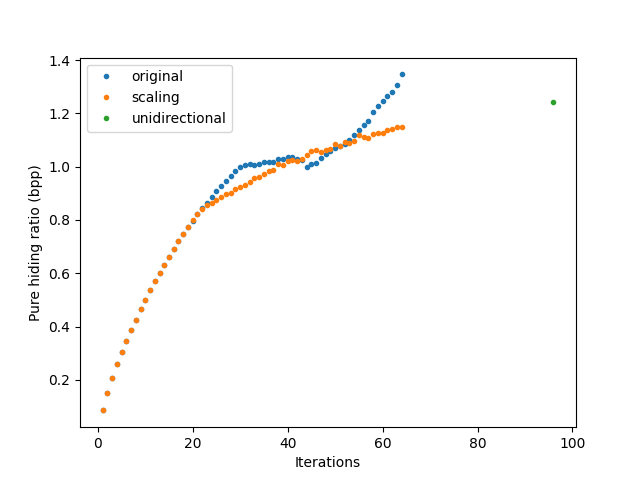
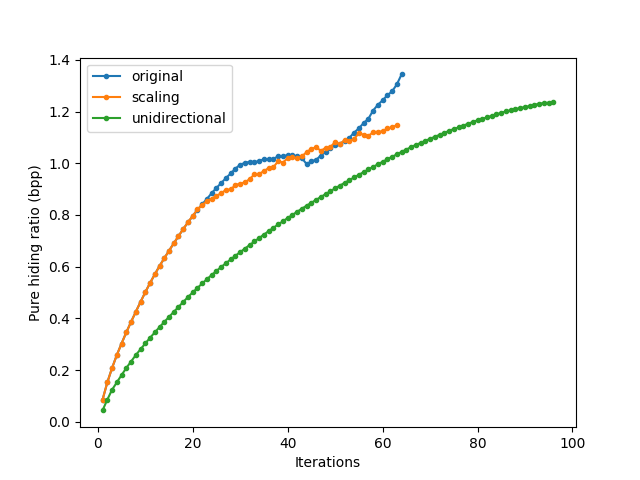
minor fixes

diff --git a/stats.py b/stats.py
@@ -1,3 +1,7 @@
+import argparse
+import os
+
+import PIL.Image as Image
 import cv2
 import matplotlib.pyplot as plt
 import numpy as np
@@ -6,66 +10,38 @@ from skimage.metrics import structural_similarity
 import compress
 from measure import Measure
 from rdh import *
+from shared import bits_to_bytes
 
-ORIGINAL_IMAGE_NAME = 'peppers'
-ORIGINAL_IMAGE_PATH = f'res/{ORIGINAL_IMAGE_NAME}.png'
+parser = argparse.ArgumentParser()
+parser.add_argument('source', help='The path of the original image.', type=str)
+args = parser.parse_args()
+
+ORIGINAL_IMAGE_NAME = args.source
+ORIGINAL_IMAGE_PATH = f'res/{ORIGINAL_IMAGE_NAME}'
 DATA_PATH = 'res/data.txt'
-RDH_ALGORITHMS = [original_algorithm, scaling_algorithm]
-COMPRESSION_ALGORITHM = compress.Zlib()
+RDH_ALGORITHMS = [original_algorithm, scaling_algorithm, unidirectional_algorithm]
+
+image_name, _ = os.path.splitext(ORIGINAL_IMAGE_NAME)
+
+original_image = np.uint8(Image.open(ORIGINAL_IMAGE_PATH).getchannel(0))
+dims = original_image.shape
+if len(dims) > 2:
+    original_image = original_image[:, :, 0]
+
+np.random.seed(2115)
+data = bits_to_bytes(np.random.randint(0, 2, size=2000 * 2000) > 0)
 
 
-def plot(xs, ys, labels, x_label, y_label, name):
+def plot(ys, labels, x_label, y_label, name):
     plt.figure()
-    for x, y, label in zip(xs, ys, labels):
-        plt.plot(x, y, 'o', label=label, markersize=3)
+    for y, label in zip(ys, labels):
+        plt.plot(range(1, len(y) + 1), y, '-o', label=label, markersize=3)
     plt.xlabel(x_label)
     plt.ylabel(y_label)
     plt.legend()
     plt.savefig(f'plots/{name}.png')
-    plt.show()
 
 
-def evaluate():
-    global iterations_count
-    if rdh.extract:
-        try:
-            recovered_image, iterations_count, extracted_data = \
-                Measure(rdh.extract, 'extraction')(processed_image.copy())
-            is_successful = not np.any(original_image - recovered_image)
-            hidden_data_size = len(extracted_data) * 8
-        except Exception as e:
-            print(e)
-            is_successful = False
-            hidden_data_size = 0
-            recovered_image = None
-
-    else:
-        recovered_image = None
-        hidden_data_size = 8 * (len(data) - len(remaining_data))
-        is_successful = hidden_data_size >= 0
-
-    if is_successful:
-        print(hidden_data_size, 'bits')
-        print(hidden_data_size / 8000, 'kb')
-        print(round(hidden_data_size / original_image.size, 3), 'bit/pixel')
-        algorithm_iterations.append(iterations_count)
-        algorithm_rations.append(hidden_data_size / original_image.size)
-        algorithm_stds.append(np.std(processed_image, dtype=np.float64))
-        algorithm_means.append(np.mean(processed_image, dtype=np.float64))
-        algorithm_ssids.append(structural_similarity(original_image, processed_image))
-    else:
-        print('extraction failed')
-        if recovered_image is not None:
-            print('PSNR =', cv2.PSNR(original_image, recovered_image))
-
-    return
-
-
-original_image = cv2.imread(ORIGINAL_IMAGE_PATH, cv2.IMREAD_GRAYSCALE)
-data = open(DATA_PATH, 'rb').read()
-
-ITERATIONS = np.arange(1, 65)
-iterations = []
 ratios = []
 stds = []
 means = []
@@ -75,45 +51,57 @@ for rdh in RDH_ALGORITHMS:
     print('======================')
     print(rdh)
     print('======================')
-    algorithm_iterations = []
     algorithm_rations = []
     algorithm_stds = []
     algorithm_means = []
     algorithm_ssids = []
-    for iterations_count in ITERATIONS:
+    for iterations_count in range(1, rdh.limit + 1):
         print(f'{iterations_count} iterations:')
 
-        processed_image, remaining_data = Measure(rdh.embed, 'embedding')(original_image.copy(), data, iterations_count,
-                                                                          COMPRESSION_ALGORITHM.compress)
-        evaluate()
+        processed_image, remaining_data = Measure(rdh.embed, 'embedding')(original_image.copy(), data, iterations_count)
+        if rdh.extract:
+            try:
+                recovered_image, extraction_iterations, extracted_data = Measure(rdh.extract, 'extraction')(
+                    processed_image.copy())
+                is_successful = \
+                    not np.any(original_image - recovered_image) and extraction_iterations == iterations_count
+                hidden_data_size = len(extracted_data) * 8
+            except Exception as e:
+                print(e)
+                is_successful = False
+                hidden_data_size = 0
+                recovered_image = None
+        else:
+            recovered_image = None
+            hidden_data_size = 8 * (len(data) - len(remaining_data))
+            is_successful = hidden_data_size >= 0
+
+        if is_successful:
+            print(hidden_data_size, 'bits')
+            print(hidden_data_size / 8000, 'kb')
+            print(round(hidden_data_size / original_image.size, 3), 'bit/pixel')
+            algorithm_rations.append(hidden_data_size / original_image.size)
+            algorithm_stds.append(np.std(processed_image, dtype=np.float64))
+            algorithm_means.append(np.mean(processed_image, dtype=np.float64))
+            algorithm_ssids.append(structural_similarity(original_image, processed_image))
+        else:
+            print('extraction failed')
+            if recovered_image is not None:
+                print('PSNR =', cv2.PSNR(original_image, recovered_image))
+            break
 
         print('total time:', stopwatch)
         print('----------------------')
 
-    iterations.append(algorithm_iterations)
     ratios.append(algorithm_rations)
     stds.append(algorithm_stds)
     means.append(algorithm_means)
     ssids.append(algorithm_ssids)
 
-algorithm_iterations = []
-algorithm_rations = []
-algorithm_stds = []
-algorithm_means = []
-algorithm_ssids = []
-rdh = unidirectional_algorithm
-processed_image = rdh.embed(original_image.copy(), data)
-evaluate()
-iterations.append(algorithm_iterations)
-ratios.append(algorithm_rations)
-stds.append(algorithm_stds)
-means.append(algorithm_means)
-ssids.append(algorithm_ssids)
-
 algorithms_labels = [algo.label for algo in RDH_ALGORITHMS]
 algorithms_labels.append(unidirectional_algorithm.label)
 
-plot(iterations, ratios, algorithms_labels, 'Iterations', 'Pure hiding ratio (bpp)', ORIGINAL_IMAGE_NAME + '_rate')
-plot(iterations, stds, algorithms_labels, 'Iterations', 'Standard Deviation', ORIGINAL_IMAGE_NAME + '_std')
-plot(iterations, means, algorithms_labels, 'Iterations', 'Mean Brightness', ORIGINAL_IMAGE_NAME + '_mean')
-plot(iterations, ssids, algorithms_labels, 'Iterations', 'Structural Similarity (SSID)', ORIGINAL_IMAGE_NAME + '_ssid')
+plot(ratios, algorithms_labels, 'Iterations', 'Pure hiding ratio (bpp)', image_name + '_rate')
+plot(stds, algorithms_labels, 'Iterations', 'Standard Deviation', image_name + '_std')
+plot(means, algorithms_labels, 'Iterations', 'Mean Brightness', image_name + '_mean')
+plot(ssids, algorithms_labels, 'Iterations', 'Structural Similarity (SSID)', image_name + '_ssid')

diff --git a/unidirection/embed.py b/unidirection/embed.py
@@ -73,8 +73,6 @@ def get_overhead(P_L, P_H, flag, location_map, arr):
 def process():
     global img, old_P_L, old_P_H, overhead_data, pure_embedded_data, d, iteration, capacity
     while True:
-        if iteration == 72:
-            print()
         hist = get_hist(img)
         P_L, P_H = get_peaks_from_hist(hist)  # what if there are multiple options?
         capacity = np.sum(img == P_H)
@@ -91,7 +89,7 @@ def process():
         else:
             overhead_data = get_overhead(old_P_L, old_P_H, 1, compressed_map, overhead_data)
 
-        if overhead_data.size > capacity:
+        if overhead_data.size > capacity or iteration == iterations_limit:
             break
 
         pure_embedded_data += capacity - overhead_data.size
@@ -108,8 +106,14 @@ def process():
 
 
 def main():
-    global overhead_data, img, header_pixels, M, N
-    np.random.seed(2115)
+    global overhead_data, img, header_pixels, M, N, hidden_data_index, d, old_P_L, old_P_H, \
+        iteration, pure_embedded_data
+    hidden_data_index = 0
+    d = 1
+    old_P_L = 0
+    old_P_H = 0
+    iteration = 0
+    pure_embedded_data = 0
     M, N = img.shape
     img = img.flatten()
     header_pixels = img[-16:]
@@ -118,31 +122,35 @@ def main():
     process()
 
 
-def embed(cover_image, data):
-    global img, hidden_data
+def embed(cover_image, data, limit=None):
+    global img, hidden_data, iterations_limit
+    if limit:
+        iterations_limit = limit
     img = cover_image
     hidden_data = bytes_to_bits(data)
     main()
-    return img
+    return img, hidden_data[hidden_data_index:]
 
 
-hidden_data_index = 0
-d = 1
-old_P_L = 0
-old_P_H = 0
-iteration = 0
-pure_embedded_data = 0
+hidden_data_index = None
+d = None
+old_P_L = None
+old_P_H = None
+iteration = None
+pure_embedded_data = None
 header_pixels = None
 img = None
 M = None
 N = None
 overhead_data = None
 capacity = None
+iterations_limit = 1000000
 
 if __name__ == '__main__':
     hidden_data = bytes_to_bits(open('res/data.txt', 'rb').read())
     # hidden_data = np.array([])
     img = np.uint8(Image.open(IMAGE_PATH))
+    # np.random.seed(2115)
     # hidden_data = np.random.randint(0, 2, size=2000 * 2000) > 0
     main()
     print("Took", iteration, "iterations")

diff --git a/rdh.py b/rdh.py
@@ -6,15 +6,21 @@ from unidirection import embed, extract
 
 
 class RDH:
-    def __init__(self, label, embed, extract=None):
+    INF = 10000
+
+    def __init__(self, label, limit, embed, extract=None):
         self.embed = embed
         self.extract = extract
         self.label = label
+        if limit == -1:
+            self.limit = RDH.INF
+        else:
+            self.limit = limit
 
     def __str__(self) -> str:
         return self.label
 
 
-original_algorithm = RDH('original', original_embed.embed, original_extract.extract)
-scaling_algorithm = RDH('scaling', scaling_embed.embed, scaling_extract.extract)
-unidirectional_algorithm = RDH('unidirectional', embed.embed, extract.extract)
+original_algorithm = RDH('original', 64, original_embed.embed, original_extract.extract)
+scaling_algorithm = RDH('scaling', 63, scaling_embed.embed, scaling_extract.extract)
+unidirectional_algorithm = RDH('unidirectional', -1, embed.embed, extract.extract)

diff --git a/unidirection/extract.py b/unidirection/extract.py
@@ -1,7 +1,7 @@
 import PIL.Image as Image
 
 from unidirection.configurations import *
-from unidirection.data_buffer import DataBuffer
+from data_buffer import BoolDataBuffer
 
 
 def imsave(filename, img):
@@ -10,7 +10,7 @@ def imsave(filename, img):
 
 def get_payload(P_H):
     embedded_data = np.logical_or(img == P_H, img == P_H + d)
-    return DataBuffer(bool, img[embedded_data] != P_H)
+    return BoolDataBuffer(img[embedded_data] != P_H)
 
 
 def shift_in_between(P_L, P_H):

diff --git a/shared.py b/shared.py
@@ -89,6 +89,7 @@ def get_mapped_values(og_max, scaled_max):
     recovered_values = scaled_values / scale_factor
     recovered_values += EPS
     recovered_values = np.floor(recovered_values)
+
     mapped_values = scaled_values[np.where(recovered_values - og_values != 0)]
     if not len(mapped_values):
         mapped_values = np.array([-1])
